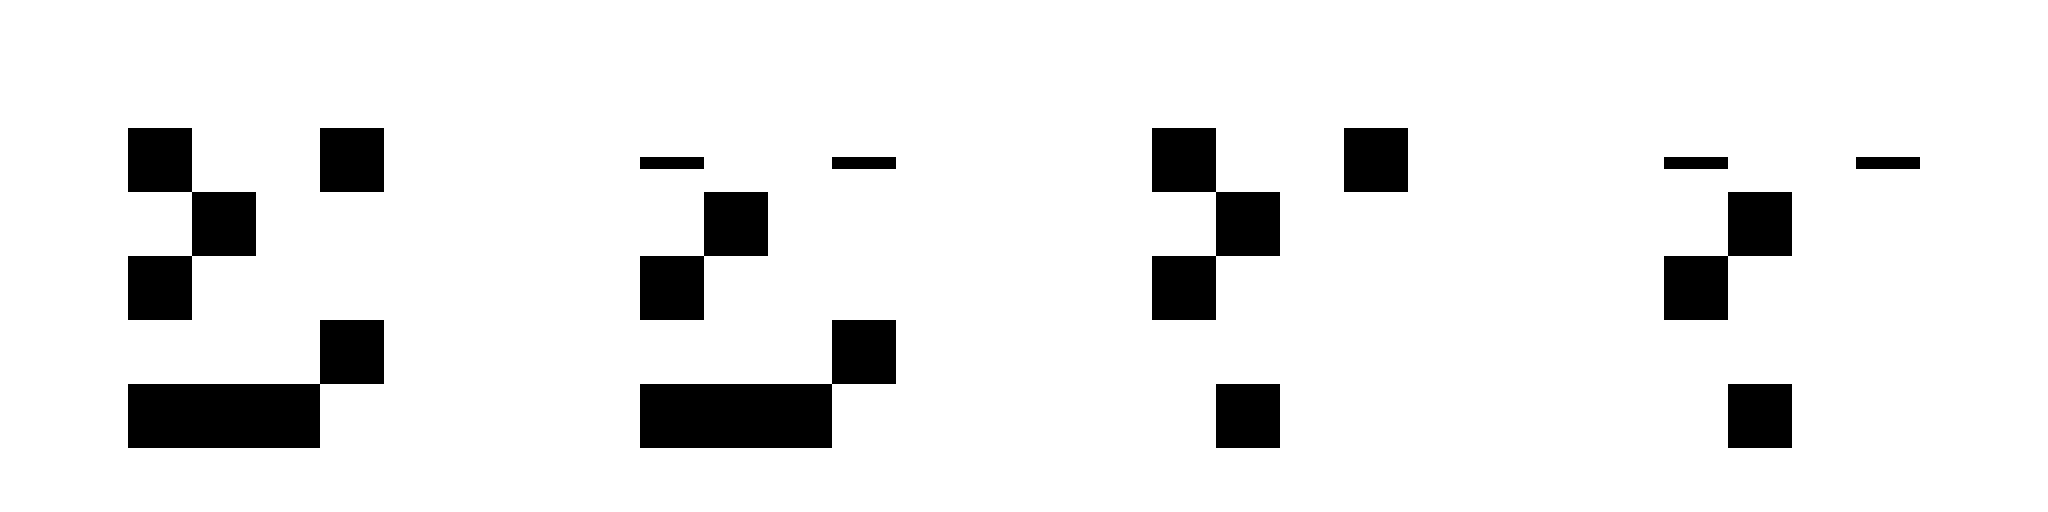
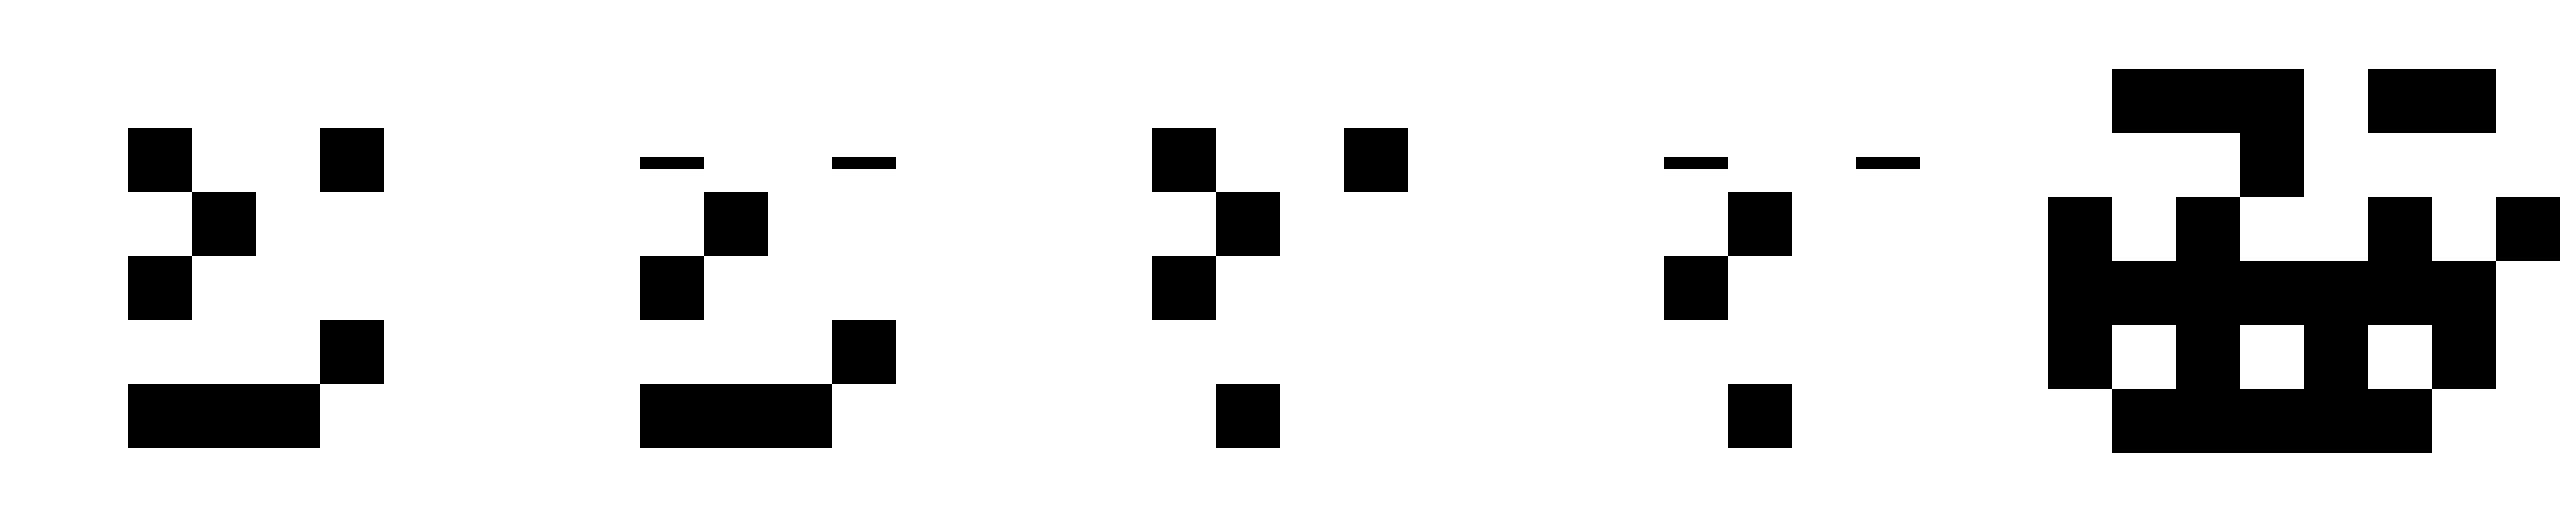
added rare trollface chance

diff --git a/src/components/Canvas3D.jsx b/src/components/Canvas3D.jsx
@@ -17,9 +17,9 @@ function Mesh3D() {
 
   // animation variables
   const [currentFrame, setCurrentFrame] = useState(0);
-  const frameDurations = [3500, 200, 2500, 200];
-  const frameDiviations = [1000, 50, 1000, 50]
-  const frameCount = 4;
+  const frameDurations = [3500, 200, 2500, 200, 500];
+  const frameDiviations = [1000, 50, 1000, 50, 0]
+  const frameCount = 5;
   const frameWidth = 1 / frameCount;
 
   //load textures
@@ -80,9 +80,13 @@ function Mesh3D() {
           case 0:
             return 1;
           case 1: 
-            const ponderChance = Math.random();
-            if(ponderChance > 0.75){
-              return 2;
+            const emoteChance = Math.random();
+            console.log(emoteChance);
+            if(emoteChance > 0.65){
+              if(emoteChance > 0.95){
+                return 4;
+              }
+                return 2;
             } else {
               return 0;
             }
@@ -95,6 +99,8 @@ function Mesh3D() {
             } else {
               return 0;
             }
+          case 4:
+            return 0;
         }
       });
     };
